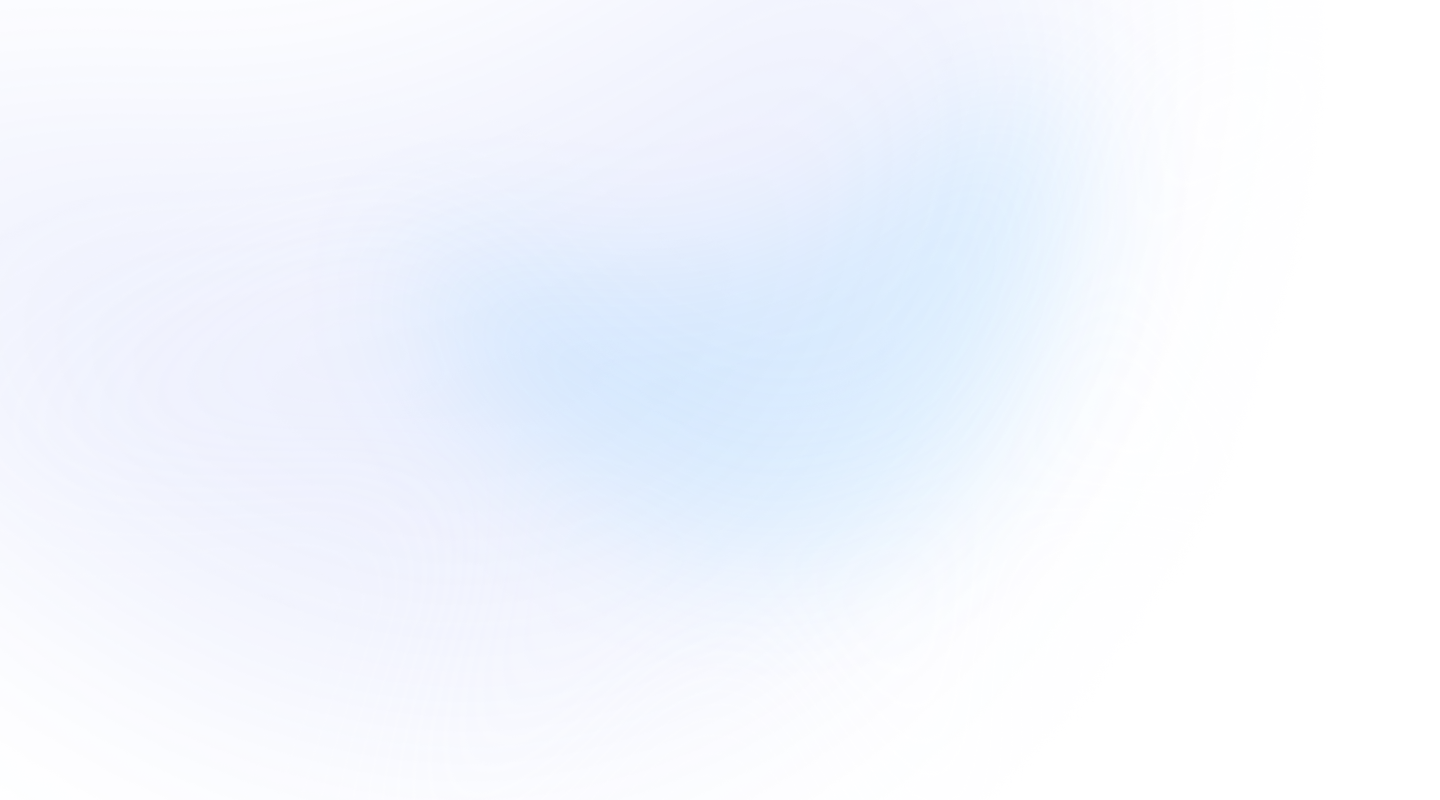
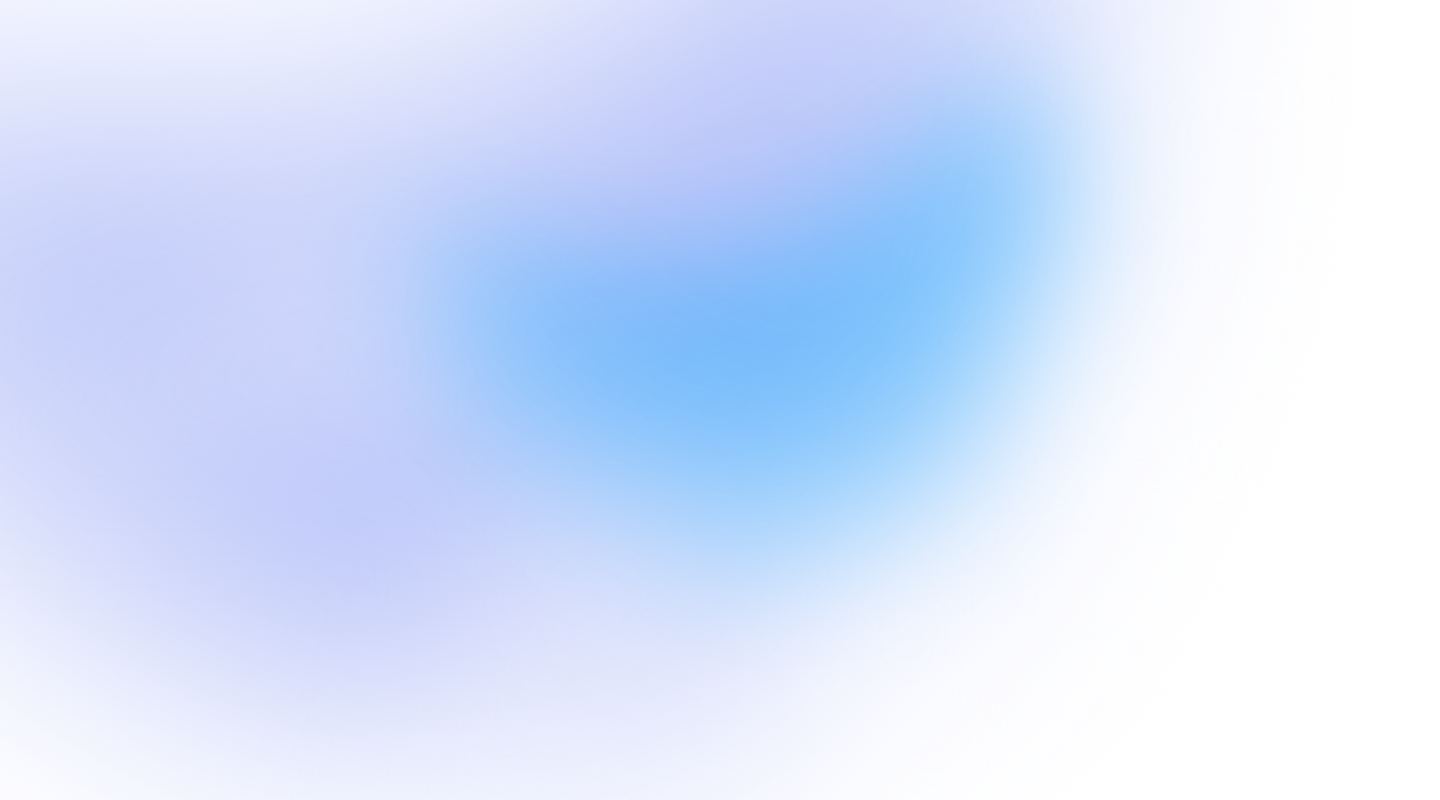
add footer

diff --git a/src/components/pages/Home.jsx b/src/components/pages/Home.jsx
@@ -13,22 +13,25 @@ import Achievements from './Achievements/Achievements';
 import useOnScreen from '../../hooks/useOnScreen';
 import Profit from './Profit/Profit';
 import Header from '../header/Header';
+import Footer from './Footer/Footer';
 
 const slides = [
 	{
 		Component: Welcome,
-		slideProps: { className: styles.welcome },
+		slideProps: { className: styles.welcome, id: 'Welcome' },
 		componentProps: {},
 	},
 	{
 		Component: OurVision,
-		slideProps: {},
+		slideProps: {
+			id: 'OurVision',
+		},
 		componentProps: {},
 	},
 	{
 		Component: KeyFeatures,
 		slideProps: {
-			id: 'keyFeatures',
+			id: 'KeyFeatures',
 		},
 		componentProps: {},
 	},
@@ -36,52 +39,67 @@ const slides = [
 		Component: AboutUs,
 		slideProps: {
 			className: styles.aboutUs,
+			id: 'AboutUs',
 		},
 		componentProps: {},
 	},
 	{
 		Component: AboutUsMore,
-		slideProps: {},
+		slideProps: {
+			id: 'AboutUsMore',
+			className: styles.aboutUsMore,
+		},
 		componentProps: {},
 	},
 	{
 		Component: AboutUsMore,
-		slideProps: {},
+		slideProps: {
+			id: 'AboutUsMore',
+		},
 		componentProps: { selectedLink: 1 },
 	},
 	{
 		Component: AboutUsMore,
-		slideProps: {},
+		slideProps: {
+			id: 'AboutUsMore',
+		},
 		componentProps: { selectedLink: 2 },
 	},
 	{
 		Component: AboutUsMore,
-		slideProps: {},
+		slideProps: {
+			id: 'AboutUsMore',
+		},
 		componentProps: { selectedLink: 3 },
 	},
 	{
 		Component: AdminPanel,
-		slideProps: { className: styles.adminPanel },
+		slideProps: { className: styles.adminPanel, id: 'AdminPanel' },
 		componentProps: {},
 	},
 	{
 		Component: Documentation,
-		slideProps: { className: styles.docs },
+		slideProps: { className: styles.docs, id: 'Documentation' },
 		componentProps: {},
 	},
 	{
 		Component: Registration,
-		slideProps: { className: styles.reg },
+		slideProps: { className: styles.reg, id: 'Registration' },
 		componentProps: {},
 	},
 	{
 		Component: Achievements,
-		slideProps: {},
+		slideProps: { id: 'Achievements' },
 		componentProps: {},
 	},
 	{
 		Component: Profit,
-		slideProps: { className: styles.profit },
+		slideProps: { className: styles.profit, id: 'Profit' },
+		componentProps: {},
+	},
+	{
+		Component: Footer,
+		slideProps: { id: 'Footer' },
 		componentProps: {},
 	},
 ];
@@ -140,7 +158,7 @@ const Home = () => {
 
 	return (
 		<>
-			<Header currentSlide={currentSlide} />
+			<Header currentSlide={slides[currentSlide]} />
 			<main>
 				{slides.map(({ Component, componentProps, slideProps }, index) => (
 					<Slide key={index} {...slideProps} ref={(el) => (itemsRef.current[index] = el)}>

diff --git a/src/components/pages/Footer/Footer.module.css b/src/components/pages/Footer/Footer.module.css
@@ -1,0 +1,59 @@
+.container {
+    padding: 50px;
+    padding-left: var(--padding-desktop-container-horizontal);
+    padding-right: var(--padding-desktop-container-horizontal);
+    display: flex;
+    justify-content: space-between;
+}
+
+.menuList {}
+
+
+.listItemTitle {
+    margin-bottom: 12px;
+}
+
+.listItem {
+    color: rgba(255, 255, 255, 0.66);
+}
+
+.container nav {
+    display: flex;
+    justify-content: space-between;
+    flex-grow: 1;
+    max-width: 400px;
+}
+
+.additionals {
+    display: flex;
+    flex-direction: column;
+    justify-content: space-between;
+    align-items: flex-end;
+    font-size: 18px;
+    color: rgba(255, 255, 255, 0.37);
+}
+
+.additionals p {
+    font-size: 18px;
+}
+
+
+@media(max-width: 391px) {
+    .container {
+        padding: 30px;
+        padding-left: var(--padding-mobile-container-horizontal);
+        padding-right: var(--padding-mobile-container-horizontal);
+        flex-direction: column;
+        gap: 28px;
+    }
+
+    .container nav {
+        flex-direction: column;
+        gap: 32px;
+    }
+
+    .additionals {
+        align-items: center;
+        gap: 8px;
+    }
+}

diff --git a/src/components/pages/Profit/Profit.module.css b/src/components/pages/Profit/Profit.module.css
@@ -1,5 +1,5 @@
 .container {
-    transition: all 0.5s;
+    transition: all 1s;
     display: flex;
     flex-direction: column;
     margin: auto;
@@ -12,24 +12,18 @@
     /* transition: background-color 0.5s, background-image 0.5s; */
 
     background-color: rgba(0, 0, 255, 0.02);
-    background-image: url('../../../assets/blur/blur-profit-2.png');
+    background-image: url('../../../assets/blur/blur-profit-0.png');
     background-repeat: no-repeat;
     background-position: left;
 
 }
 
 .container-step-2 {
-    background-color: rgba(0, 0, 255, 0.25);
-    /* background-image: url('../../assets/blur/blur-profit-2.png'); */
-    background-repeat: no-repeat;
-    background-position: left;
+    background-image: url('../../../assets/blur/blur-profit.png');
 }
 
 .container-step-3 {
-    background-color: rgba(29, 83, 137, 0.722);
-    /* background-image: url('../../assets/blur/blur-profit-2.png'); */
-    background-repeat: no-repeat;
-    background-position: left;
+    background-image: url('../../../assets/blur/blur-profit-2.png');
 }
 
 .container-step-2 .result .opacityText, .container-step-3 .result .opacityText {

diff --git a/src/components/pages/Footer/Footer.jsx b/src/components/pages/Footer/Footer.jsx
@@ -1,0 +1,34 @@
+import React from 'react';
+import styles from './Footer.module.css';
+
+import Blur2 from '../../../assets/blur/blur2.png';
+import Blur from '../../../assets/blur/blur1.png';
+import classNames from 'classnames';
+import Logo from '../../ui/Logo/Logo';
+
+const Footer = () => {
+	return (
+		<div className={styles.container}>
+			<nav>
+				<ul>
+					<li className={styles.listItemTitle}>Contacts</li>
+					<li className={styles.listItem}>mail@srark.t</li>
+					<li className={styles.listItem}>Twitter</li>
+					<li className={styles.listItem}>Telegram</li>
+				</ul>
+				<ul>
+					<li className={styles.listItemTitle}>Links</li>
+					<li className={styles.listItem}>FAQ</li>
+					<li className={styles.listItem}>Case Studies</li>
+					<li className={styles.listItem}>Blog</li>
+				</ul>
+			</nav>
+			<div className={styles.additionals}>
+				<Logo size={'small'} />
+				<p>all rights reserved 2024</p>
+			</div>
+		</div>
+	);
+};
+
+export default Footer;

diff --git a/src/components/header/Header.jsx b/src/components/header/Header.jsx
@@ -3,6 +3,7 @@ import MenuIcon from '../../assets/icons/menu-mobile-icon.svg?react';
 import Button from '../ui/Button/Button';
 import { useContext, useState } from 'react';
 import Logo from '../ui/Logo/Logo';
+import { useDataStore } from '../../../store';
 
 const MenuList = ({ className }) => {
 	return (
@@ -25,13 +26,13 @@ const MenuList = ({ className }) => {
 
 const Header = ({ currentSlide }) => {
 	const [isMobileMenuOpen, setIsMobileMenuOpen] = useState(false);
-
+	const step = useDataStore((s) => s.step);
 	//12
-	const contrastLogo = currentSlide === 0 && document.body.classList.contains('end');
+	const contrastLogo = currentSlide.slideProps.id === 'Profit' && step > 0;
 
 	return (
 		<header className={styles.container}>
-			{currentSlide > 0 && (
+			{currentSlide.slideProps.id !== 'Welcome' && (
 				<div className={styles.logoSmall}>
 					<Logo contrast={contrastLogo} />
 				</div>

diff --git a/src/components/pages/Profit/Profit.jsx b/src/components/pages/Profit/Profit.jsx
@@ -5,12 +5,15 @@ import Input from '../../ui/Input/Input';
 import Spoiler from '../../../assets/spoiler.svg?react';
 import classNames from 'classnames';
 import Button from '../../ui/Button/Button';
+import { useDataStore } from '../../../../store';
 
 const Profit = () => {
 	const [stake, setStake] = useState('');
-	const [step, setStep] = useState(0);
-	const [isEnd, setIsEnd] = useState(false);
+	const step = useDataStore((s) => s.step);
+	const setStep = useDataStore((s) => s.setStep);
 	const isFinalStep = step === 2;
+
+	const [isEnd, setIsEnd] = useState(false);
 
 	useEffect(() => {
 		if (!stake || isEnd) return;
@@ -31,7 +34,7 @@ const Profit = () => {
 		if (step !== 1) return;
 		setTimeout(() => {
 			setStep(2);
-		}, 1000);
+		}, 1500);
 	}, [step]);
 
 	return (

diff --git a/src/components/ui/Logo/Logo.jsx b/src/components/ui/Logo/Logo.jsx
@@ -2,11 +2,16 @@ import React from 'react';
 import LogoIcon from '../../../assets/logo-small.png';
 import LogoIconContrast from '../../../assets/logo-small-contrast.png';
 import styles from './Logo.module.css';
+import classNames from 'classnames';
 
-const Logo = ({ contrastLogo }) => {
+const Logo = ({ contrast, size }) => {
 	return (
 		<div className={styles.container}>
-			<img src={contrastLogo ? LogoIconContrast : LogoIcon} alt='logo' />
+			<img
+				src={contrast ? LogoIconContrast : LogoIcon}
+				alt='logo'
+				className={classNames(size && styles[`logo-${size}`])}
+			/>
 			<p>spark-t</p>
 		</div>
 	);

diff --git a/src/components/ui/Slide/Slide.jsx b/src/components/ui/Slide/Slide.jsx
@@ -6,6 +6,8 @@ import useOnScreen from '../../../hooks/useOnScreen';
 const Slide = (props, ref) => {
 	const { children, className = null, id = '' } = props;
 
+	console.log('id', id);
+
 	return (
 		<section ref={ref} className={classNames(styles.slide, id && styles[id], className)}>
 			{children}
@@ -13,4 +15,6 @@ const Slide = (props, ref) => {
 	);
 };
 
-export default forwardRef(Slide);
+const Forwarded = forwardRef(Slide);
+
+export default React.memo(Forwarded);

diff --git a/src/components/pages/AboutUsMore/AboutUsMore.module.css b/src/components/pages/AboutUsMore/AboutUsMore.module.css
@@ -12,9 +12,13 @@
 
 .background {
     background-image: url('../../../assets/blur/blur3-mask.png');
+    /* background-image: url('../../../assets/blur/blur-mask-group-about-us.png'); */
     background-repeat: no-repeat;
     background-position: center;
     background-size: cover;
+    mix-blend-mode: color-burn;
+    background-blend-mode: color-burn;
+
 }
 
 .text {

diff --git a/src/components/ui/Logo/Logo.module.css b/src/components/ui/Logo/Logo.module.css
@@ -1,11 +1,18 @@
 .container {
     display: flex;
     align-items: center;
+    transition: all 0.5s;
     gap: 10px;
+    color: #fff;
 }
 
 .container p {
     font-weight: 500;
     font-size: 24px;
     white-space: nowrap;
+}
+
+.logo-small {
+    width: 37px;
+    height: 37px;
 }

diff --git a/src/index.css b/src/index.css
@@ -82,6 +82,7 @@ button {
     background: unset;
     border: none;
     color: rgba(255, 255, 255, 1);
+    cursor: pointer; 
 }
 
 ul {
@@ -92,6 +93,7 @@ ul {
 a {
     color: rgba(255, 255, 255, 1);
     text-decoration: none;
+    cursor: pointer;
 }
 
 main {

diff --git a/src/components/pages/Home.module.css b/src/components/pages/Home.module.css
@@ -41,6 +41,13 @@
 
 }
 
+.aboutUsMore {
+    /* background-image: url('../../assets/blur/blur-mask-group-about-us.png'); */
+    background-repeat: no-repeat;
+    background-position: center;
+    background-size: cover;
+}
+
 
 
 .adminPanel {
